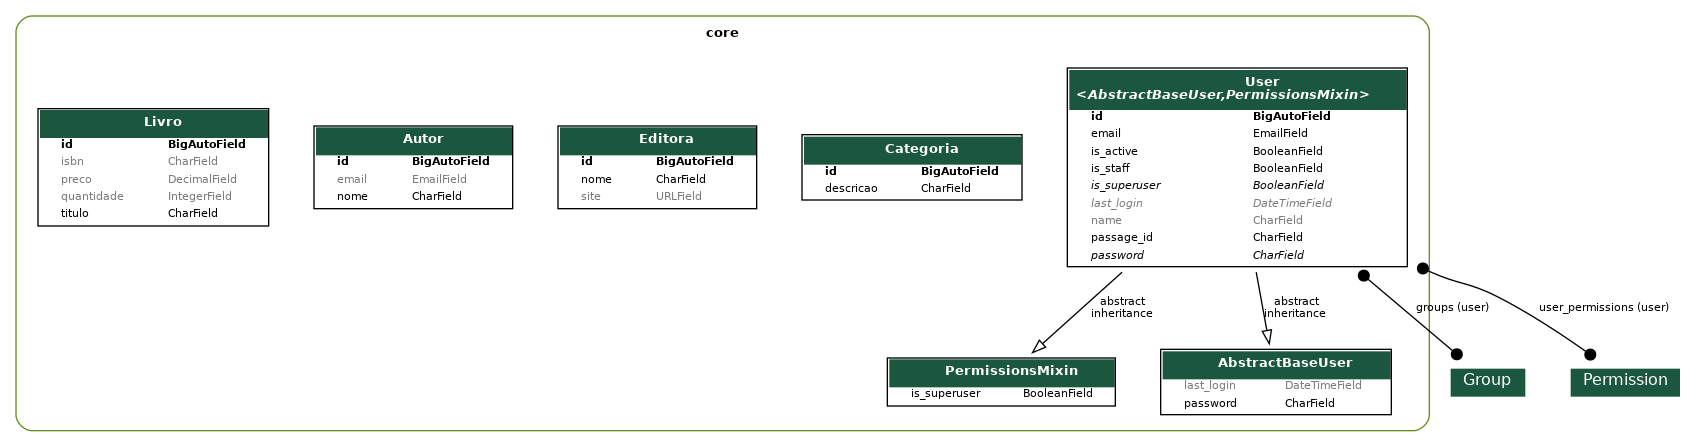
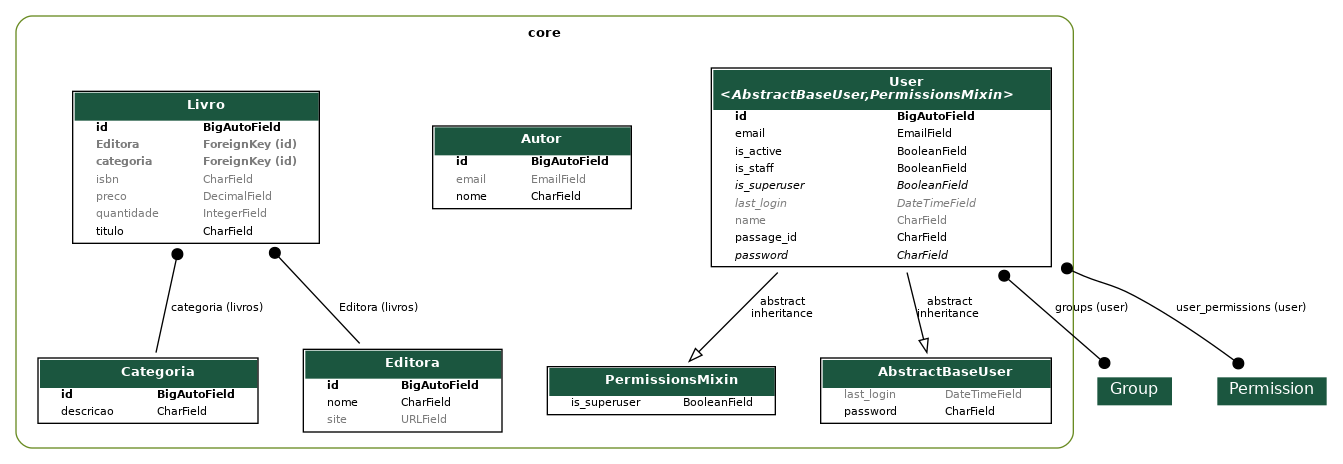
feat: inclusão do relacionamento de Livro com Categoria e Editora.

diff --git a/core/migrations/0010_livro_editora_livro_categoria.py b/core/migrations/0010_livro_editora_livro_categoria.py
@@ -1,0 +1,24 @@
+# Generated by Django 5.2 on 2025-04-14 19:33
+
+import django.db.models.deletion
+from django.db import migrations, models
+
+
+class Migration(migrations.Migration):
+
+    dependencies = [
+        ('core', '0009_rename_qauntidade_livro_quantidade'),
+    ]
+
+    operations = [
+        migrations.AddField(
+            model_name='livro',
+            name='Editora',
+            field=models.ForeignKey(blank=True, null=True, on_delete=django.db.models.deletion.PROTECT, related_name='livros', to='core.editora'),
+        ),
+        migrations.AddField(
+            model_name='livro',
+            name='categoria',
+            field=models.ForeignKey(blank=True, null=True, on_delete=django.db.models.deletion.PROTECT, related_name='livros', to='core.categoria'),
+        ),
+    ]

diff --git a/core/models/livro.py b/core/models/livro.py
@@ -1,10 +1,20 @@
 from django.db import models 
 
+from .categoria import Categoria
+
+from .editora import Editora
+
 class Livro(models.Model):
     titulo = models.CharField(max_length=255)
     isbn = models.CharField(max_length=32, null=True, blank=True)
     quantidade = models.IntegerField(default=0, null=True, blank=True)
     preco = models.DecimalField(max_digits=7, decimal_places=2, default=0, null=True, blank=True)
+    categoria = models.ForeignKey(
+        Categoria, on_delete=models.PROTECT, related_name="livros", null=True, blank=True
+    )
+    Editora = models.ForeignKey(
+        Editora, on_delete=models.PROTECT, related_name="livros", null=True, blank=True
+    )
 
     def __str__(self):
         return f"({self.id}) {self.titulo} ({self.quantidade})"
